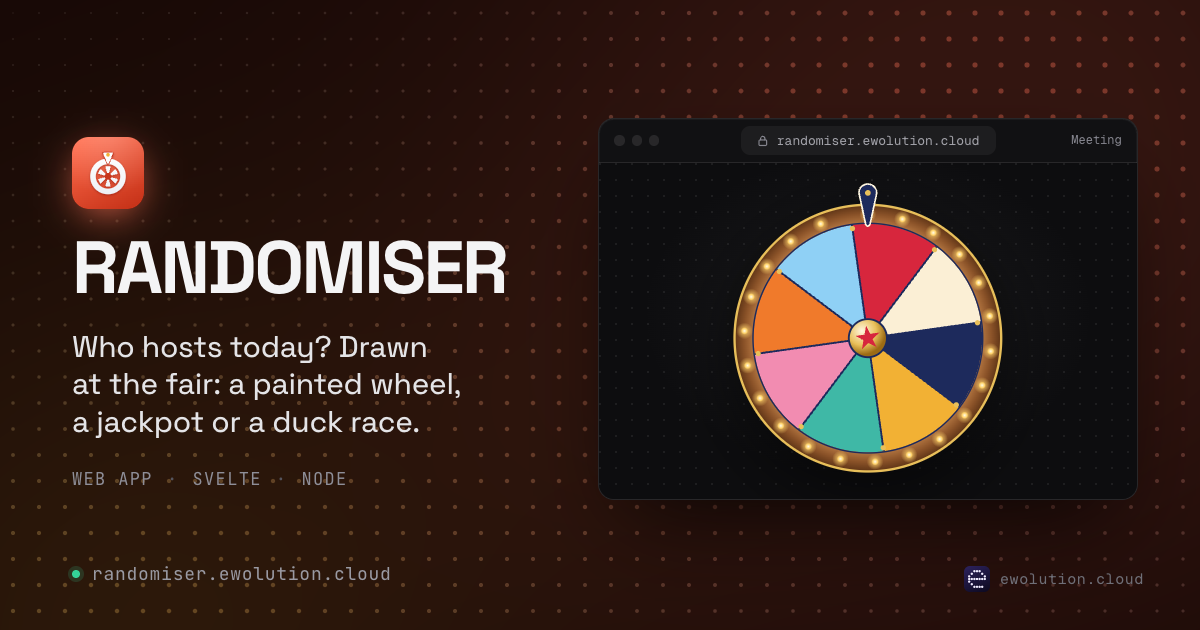
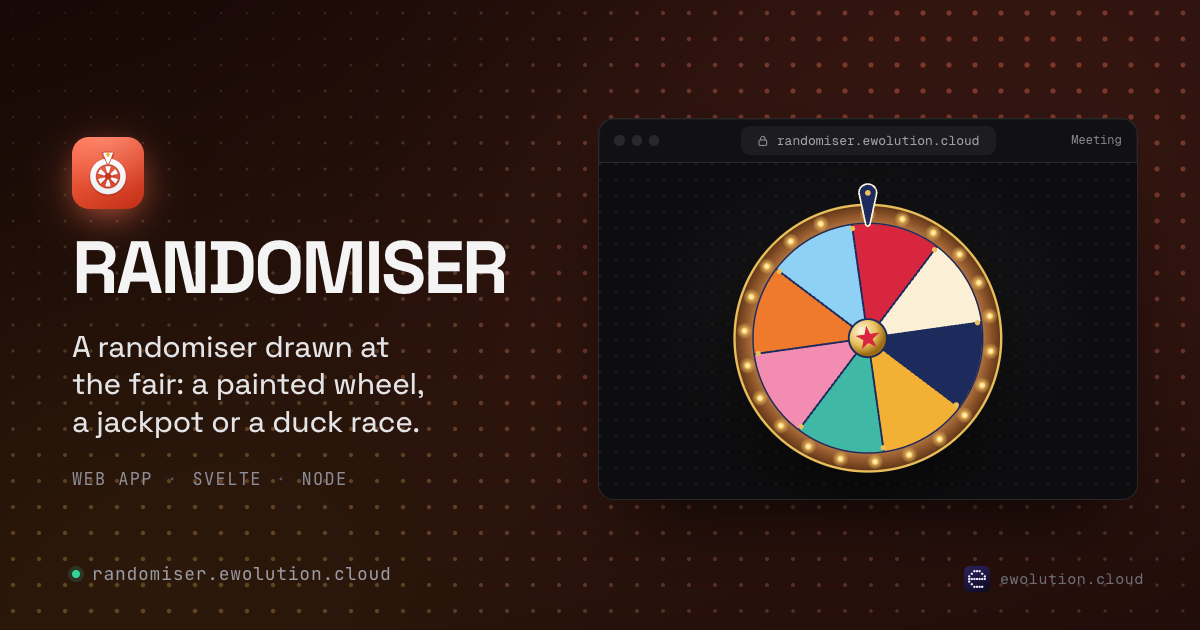
The reveal says Winner; no more "who hosts today" in the app or its link preview
Release-note: The winner screen says Winner instead of asking who hosts today.

Changed region(s): [[0.0617, 0.5127, 0.4008, 0.6333]]

diff --git a/index.html b/index.html
@@ -4,7 +4,7 @@
     <meta charset="utf-8" />
     <meta name="viewport" content="width=device-width, initial-scale=1, viewport-fit=cover" />
     <title>Randomiser</title>
-    <meta name="description" content="Wer moderiert heute? Ausgelost auf der Kirmes: Glücksrad, Jackpot oder Entenrennen." />
+    <meta name="description" content="Ausgelost auf der Kirmes: Glücksrad, Jackpot oder Entenrennen." />
     <meta name="theme-color" content="#fdf3dd" />
     <meta name="color-scheme" content="only light" />
     <link rel="icon" href="/icon.svg" type="image/svg+xml" />
@@ -16,12 +16,12 @@
     <meta property="og:type" content="website" />
     <meta property="og:site_name" content="Randomiser" />
     <meta property="og:title" content="Randomiser" />
-    <meta property="og:description" content="Wer moderiert heute? Ausgelost auf der Kirmes: Glücksrad, Jackpot oder Entenrennen." />
+    <meta property="og:description" content="Ausgelost auf der Kirmes: Glücksrad, Jackpot oder Entenrennen." />
     <meta property="og:url" content="https://randomiser.ewolution.cloud/" />
-    <meta property="og:image" content="https://randomiser.ewolution.cloud/og.png?v=1" />
+    <meta property="og:image" content="https://randomiser.ewolution.cloud/og.png?v=2" />
     <meta property="og:image:width" content="1200" />
     <meta property="og:image:height" content="630" />
-    <meta property="og:image:alt" content="Randomiser: wer moderiert heute, ausgelost auf der Kirmes." />
+    <meta property="og:image:alt" content="Randomiser: ausgelost auf der Kirmes." />
     <meta name="twitter:card" content="summary_large_image" />
     <script src="/boot.js"></script>
     <!-- splash:start (iOS launch images and the splash's look, written by development/plans/splash-rollout/launch.mjs) -->

diff --git a/src/lib/i18n.svelte.ts b/src/lib/i18n.svelte.ts
@@ -84,7 +84,7 @@ const STRINGS = {
     none: 'Noch nichts gezogen.',
     close: 'Schließen',
     allBack: 'Alle waren dran. Alle wieder im Topf!',
-    question: 'Wer moderiert heute?',
+    winner: 'Gewonnen',
     prize: 'Hauptgewinn',
     again: 'Neues Los',
     next: 'Nächste Runde',
@@ -171,7 +171,7 @@ const STRINGS = {
     none: 'Nothing drawn yet.',
     close: 'Close',
     allBack: 'Everyone has had a turn. All back in!',
-    question: 'Who hosts today?',
+    winner: 'Winner',
     prize: 'First prize',
     again: 'New ticket',
     next: 'Next one',

diff --git a/src/App.svelte b/src/App.svelte
@@ -26,7 +26,7 @@
   import { MODES, app, pool, save, type Mode, type Person } from './lib/state.svelte';
   import { sfx, sound, unlock } from './lib/sound.svelte';
 
-  /** The browser's crypto source: fair enough to decide who hosts. */
+  /** The browser's crypto source: fair enough for a draw. */
   function random() {
     const a = new Uint32Array(1);
     crypto.getRandomValues(a);

diff --git a/src/components/Reveal.svelte b/src/components/Reveal.svelte
@@ -46,7 +46,7 @@
   <div class="curtain" aria-hidden="true"></div>
   <div class="body">
     <p class="prize">{t('prize')}</p>
-    <p class="q">{t('question')}</p>
+    <p class="q">{t('winner')}</p>
     <h2 class="name" id="winner-name" style:--len={len}>{winner.n}</h2>
     <p class="quip">{t(quip.key, quip.vars)}</p>
     <div class="actions">

diff --git a/README.md b/README.md
@@ -1,7 +1,6 @@
 # Randomiser
 
-Who hosts today? The afternoon meeting's randomiser, drawn at the fair: a painted wheel, a jackpot
-or a duck race. Live at [randomiser.ewolution.cloud](https://randomiser.ewolution.cloud).
+The afternoon meeting's randomiser, drawn at the fair: a painted wheel, a jackpot or a duck race. Live at [randomiser.ewolution.cloud](https://randomiser.ewolution.cloud).
 
 - **Three ways to draw.** The **wheel** (Glücksrad) has brass nails between the slices and a leather
   pointer that clicks over them; tap it, flick it, or press the ticket. The **jackpot** is a
